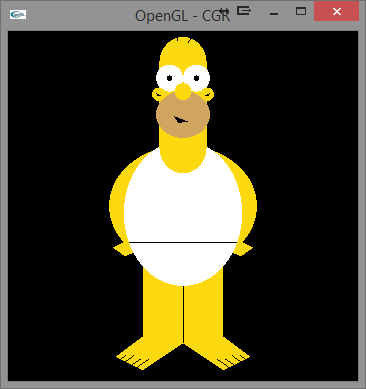
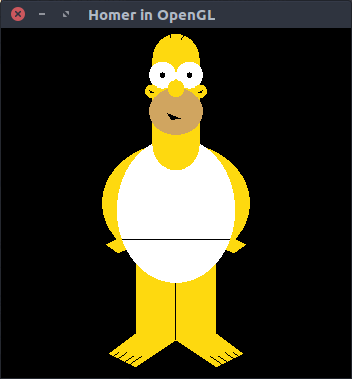
updated readme, cleaned code, updated pic

diff --git a/homer.cpp b/homer.cpp
@@ -1,19 +1,21 @@
 /**
-This file is part of Homer in OpenGL by Michael Troger.
+Copyright 2016 Michael Troger
+This file is part of Homer in OpenGL.
 
-Homer in OpenGL by Michael Troger is free software: you can redistribute it and/or modify
+Homer in OpenGL is free software: you can redistribute it and/or modify
 it under the terms of the GNU General Public License as published by
 the Free Software Foundation, either version 3 of the License, or
 (at your option) any later version.
 
-Homer in OpenGL by Michael Troger is distributed in the hope that it will be useful,
+Homer in OpenGL is distributed in the hope that it will be useful,
 but WITHOUT ANY WARRANTY; without even the implied warranty of
 MERCHANTABILITY or FITNESS FOR A PARTICULAR PURPOSE.  See the
 GNU General Public License for more details.
 
 You should have received a copy of the GNU General Public License
-along with Homer in OpenGL by Michael Troger.  If not, see <http://www.gnu.org/licenses/>.
+along with Homer in OpenGL.  If not, see <http://www.gnu.org/licenses/>.
 */
+
 #include <stdlib.h>
 #include <GL/glut.h>
 #define _USE_MATH_DEFINES
@@ -321,28 +323,6 @@ void display()
 	//clear all pixels
 	glClear(GL_COLOR_BUFFER_BIT);
 
-	/*  exercise in class
-	glPushMatrix();
-		drawQuad("white");
-
-		glTranslatef(0, 1, 0);
-		drawQuad("blue");
-
-		glTranslatef(1, 0, 0);
-		drawQuad("red");
-	glPopMatrix();
-
-	drawTriangle("grey");
-	drawCircle("blue");
-
-	glTranslatef(0, -1, 0);
-	drawQuad("green");
-
-	glTranslatef(1.2, 0, 0);
-	glRotatef(45.0, 0, 0, 1.0);
-	drawQuad("yellow");
-	*/
-
 	drawHomer();
 
 	//don't wait! process buffered OpenGL routines
@@ -361,7 +341,6 @@ void init()
 	glOrtho(-2.6, 2.6, -2.6, 2.6, -1.0, 1.0); // normal front camera, size halved
 	// glOrtho(0.0, 1.0, 0.0, 1.0, -1.0, 1.0);
 	
-
 	//set matrix-mode back to model-view for rendering
 	glMatrixMode(GL_MODELVIEW);
 }
@@ -376,7 +355,7 @@ int main(int argc, char** argv)
 	//initialize window size and position. open window
 	glutInitWindowSize(350, 350); 
 	glutInitWindowPosition(100, 100);
-	glutCreateWindow("OpenGL - CGR");
+	glutCreateWindow("Homer in OpenGL");
 
 	//call initialization routine
 	init();

diff --git a/README.md b/README.md
@@ -2,10 +2,10 @@
 ![homer](homer.png)
 
 install tools for compiling:
-sudo apt-get install g++ freeglut3 freeglut3-dev
+sudo apt-get install g++ freeglut3-dev
 
 compile:
-g++ homer.cpp -o homer -lGL -lGLU -lglut
+g++ homer.cpp -o homer -lGL -lglut
 
 launch:
 ./homer
